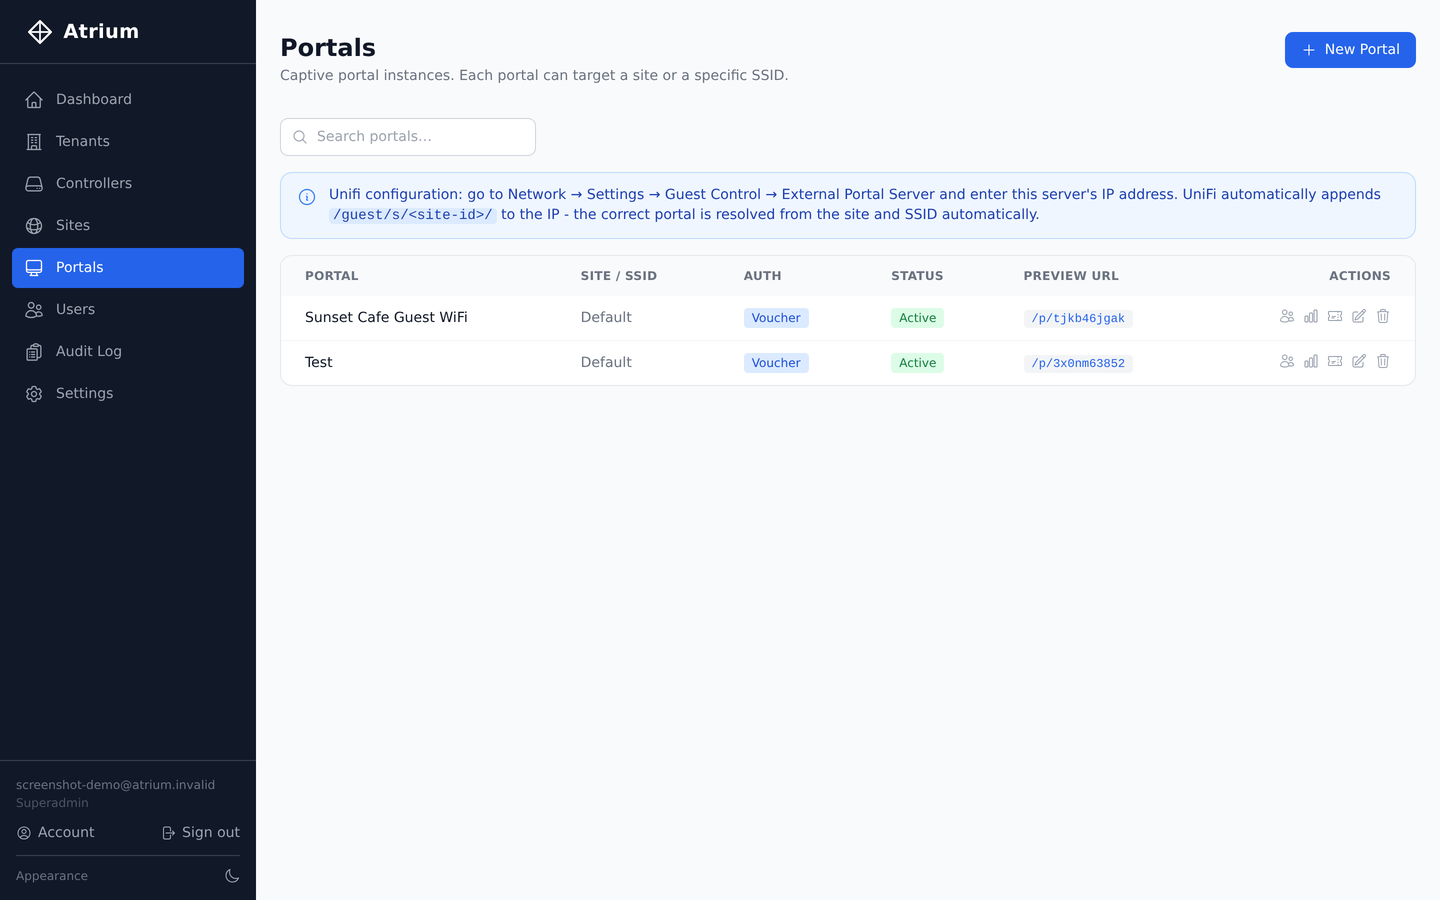
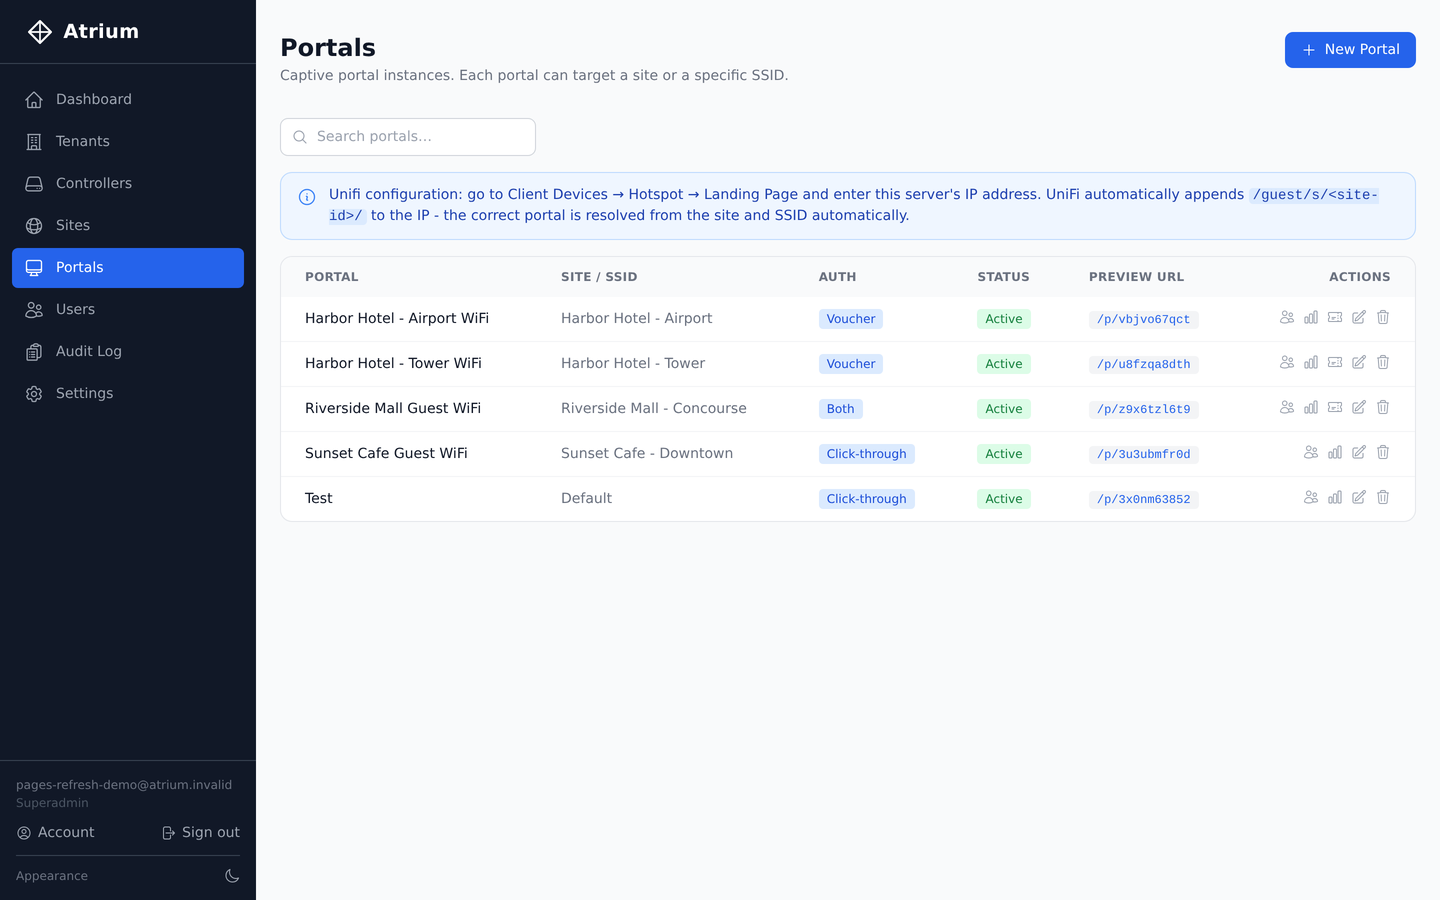
Refresh Pages screenshots: fix stale UniFi path, add multi-tenant/multi-site
portals.png now shows the corrected "Client Devices -> Hotspot -> Landing
Page" hint instead of the old path. Retook dashboard.png and tenants.png
against a richer demo dataset (3 tenants, one with 2 sites), and added a
new sites.png plus two new landing page sections specifically to sell the
multi-tenant (MSP) and multi-site angle, which nothing on the page
actually showed before despite being the headline pitch.

Screenshots taken via a throwaway demo superadmin account and demo
tenants/sites/portals, all deleted afterward - verified DB state matches
the pre-existing baseline exactly.

diff --git a/docs/index.html b/docs/index.html
@@ -115,6 +115,24 @@
     </div>
 
     <div class="shot">
+      <div class="shot-frame"><img src="assets/screenshots/tenants.png" alt="Tenants page showing multiple client organisations managed under one Atrium install" tabindex="0" role="button" class="lightbox-trigger"></div>
+      <div class="shot-text">
+        <span class="eyebrow">Multi-tenant</span>
+        <h3>Built for managing other people's networks</h3>
+        <p>Running guest WiFi for multiple clients as an MSP? Each one is a fully isolated tenant - their own sites, portals, and users, all under a single install you maintain.</p>
+      </div>
+    </div>
+
+    <div class="shot">
+      <div class="shot-frame"><img src="assets/screenshots/sites.png" alt="Sites page showing multiple UniFi sites across different tenants, each assignable and each with their own portals" tabindex="0" role="button" class="lightbox-trigger"></div>
+      <div class="shot-text">
+        <span class="eyebrow">Multi-site</span>
+        <h3>One client, many locations</h3>
+        <p>A tenant isn't limited to one site - assign as many UniFi sites to them as they have locations, each with its own portal, branding, and guest data.</p>
+      </div>
+    </div>
+
+    <div class="shot">
       <div class="shot-frame"><img src="assets/screenshots/portal_editor.png" alt="Portal appearance editor showing color pickers, font, layout, and logo/background upload" tabindex="0" role="button" class="lightbox-trigger"></div>
       <div class="shot-text">
         <span class="eyebrow">Portal builder</span>
